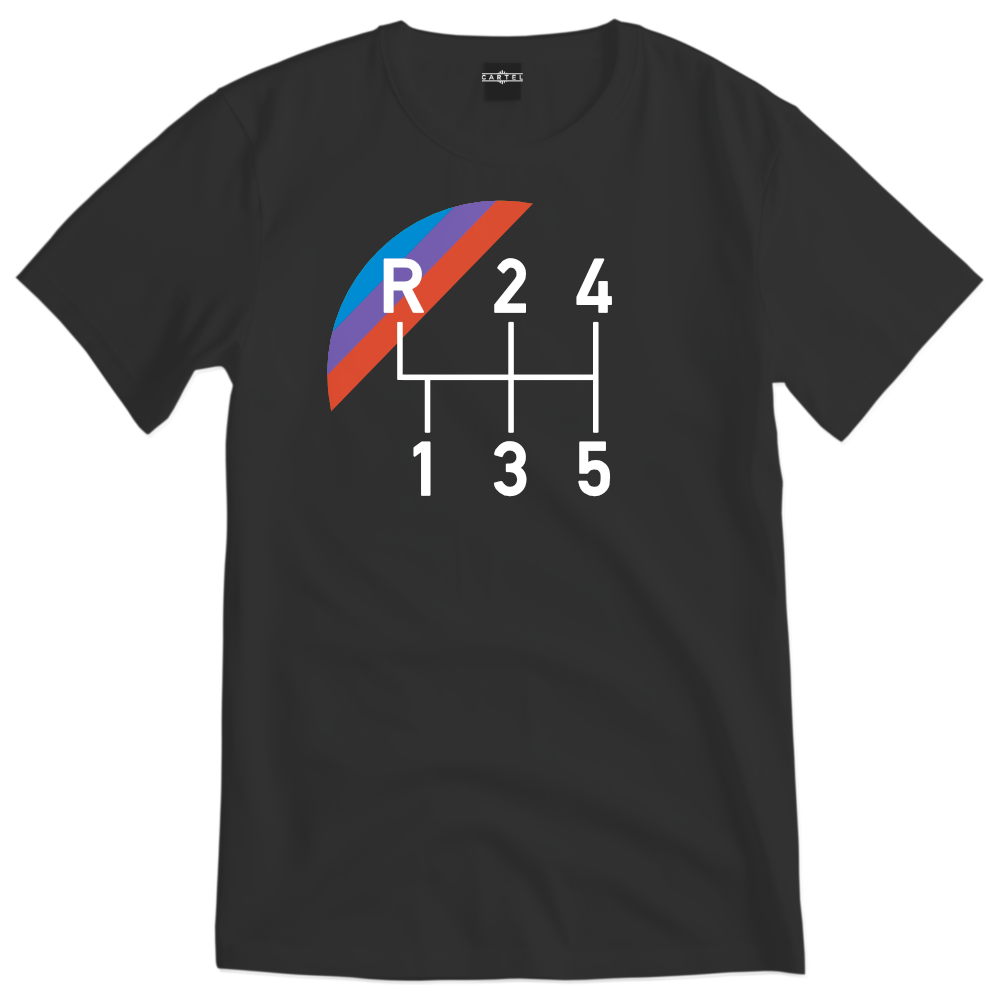
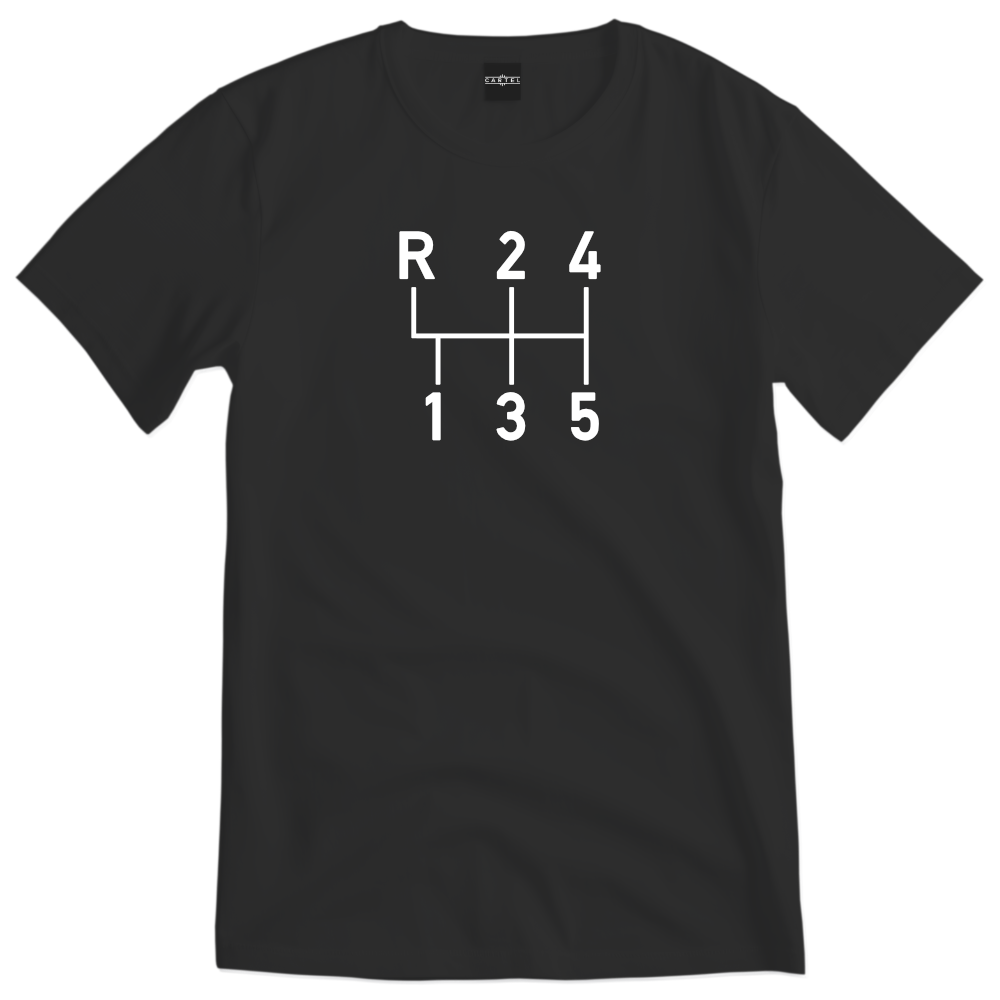
shirts

Changed region(s): [[0.31, 0.186, 0.62, 0.496], [0.465, 0.062, 0.527, 0.093]]

diff --git a/index.html b/index.html
@@ -41,29 +41,28 @@
 			<div id="show-bg"></div>
 			<h1>Shop</h1>
 			<div class="show-text">
-				Merch shop – apparel, accessories, retrofit parts &amp; custom tools... <br><br>
+				Merchandise, accessories, apparel, parts &amp; custom tools... perhaps the occasional vehicle. When we eventually get around to it. <br><br>
 				
-				When we eventually get around to it!
-
+				The following shirts are in production, but then so is the damn online shop. Coding is hard.
 				<div class="show-product">
 					<a href="#1"><div class="product-info">
 					<img src="../img/shop/t001.png">
 					<h2>'Dogleg'<br>€30</h2>
-						<span>Manual gearbox pattern as installed in the infamous BMW E30 M3 &amp; E30 320is motor sport inspired / homologation specials. Also used in the Mercedes 2.3-16V and several other late-'80s to early-'90s classics...  but this graphic is taken from the M cars. For high revving engines and twisty roads the dogleg box is the goat.</span>
+						<span>Manual gearbox pattern as installed in the infamous BMW E30 M3 &amp; E30 320is motor sport inspired / homologation specials. <br><br>Also installed in the Mercedes 2.3-16V and several other late-'80s to early-'90s classics...  but this graphic (and font) is inspired by the E30 M3. <br><br>For high revving engines on twisty roads the dogleg box is the goat.</span>
 					</div></a>
 				</div>
 				<div class="show-product">
 					<a href="#2"><div class="product-info">
-					<img src="../img/shop/t001.png">
-					<h2>'Getrag 265/5'<br>€30</h2>
-						<span>Manual gearbox pattern as installed in the infamous BMW E30 M3 &amp; E30 320is motor sport inspired / homologation specials. Also used in the Mercedes 2.3-16V and several other late-'80s to early-'90s classics...  but this graphic is taken from the M cars. For high revving engines and twisty roads the dogleg box is the goat.</span>
+					<img src="../img/shop/t002.png">
+					<h2>'Cartel Logo'<br>€30</h2>
+						<span>Our logo. Your buff chest. Enough said.</span>
 					</div></a>
 				</div>
 				<div class="show-product">
 					<a href="#3"><div class="product-info">
-					<img src="../img/shop/t001.png">
-					<h2>'Cartel Logo'<br>€30</h2>
-						<span>Manual gearbox pattern as installed in the infamous BMW E30 M3 &amp; E30 320is motor sport inspired / homologation specials. Also used in the Mercedes 2.3-16V and several other late-'80s to early-'90s classics...  but this graphic is taken from the M cars. For high revving engines and twisty roads the dogleg box is the goat.</span>
+					<img src="../img/shop/t003.png">
+					<h2>'Clutch'<br>€30</h2>
+						<span>Clutch plate graphic. Definitely hot. Hopefully not burnt.</span>
 					</div></a>
 				</div>
 			</div>	
